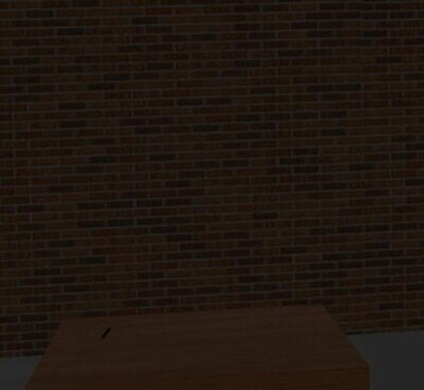
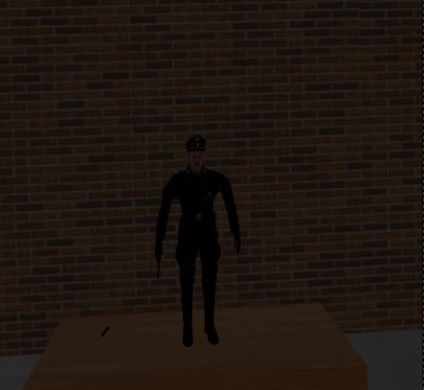
начял делать логику чутка подправил камеру добавил гитлера

Changed region(s): [[0.3679, 0.4308, 0.5825, 0.8923], [0.4292, 0.3385, 0.4906, 0.4]]

diff --git a/main.py b/main.py
@@ -5,6 +5,8 @@ import threading
 import time
 import pygame
 
+from creat import *
+
 pygame.init()
 pygame.mixer.init()
 clock = pygame.time.Clock()
@@ -17,66 +19,8 @@ pygame.display.set_caption('FNaE')
 # Шрифт (текст не отрисовывается по требованию, но шрифт оставлен если понадобится)
 font = pygame.font.Font(None, 24)
 
-def creat_button(x: int, y: int, h: int, w: int, text: str)-> pygame.Rect:
-    """создание кнопок с текстом
-
-    Args:
-        x (int): X(left) координата
-        y (int): y(top) координата
-        h (int): ширена кнопки
-        w (int): высота кнопки
-        text (str): текст на кнопке
-
-    Returns:
-        _pygame.Rect_: класс кнопки
-    """
-    # Создаем поверхность для кнопки (без цветовой заливки кнопки)
-    button_surface = pygame.Surface((h, w), pygame.SRCALPHA)  # поддержка прозрачности
-
-    # Подготовка текста (не отрисовываем его на поверхности по вашему требованию)
-    text_surf = font.render(text, True, (0, 0, 0))
-    text_rect = text_surf.get_rect(center=(button_surface.get_width() / 2,
-                                           button_surface.get_height() / 2))
-
-    # Рект кнопки (координаты на экране)
-    button_rect = pygame.Rect(x, y, h, w)
-
-    # Эффект наведения без изменения цвета: отрисуем тонкий контур при наведении
-    if button_rect.collidepoint(pygame.mouse.get_pos()):
-        pygame.draw.rect(button_surface, (0, 0, 0, 50), button_surface.get_rect(), 2)  # полупрозрачный контур
-    else:
-        pygame.draw.rect(button_surface, (0, 0, 0, 0), button_surface.get_rect(), 1)  # невидимый/тонкий контур
-
-    # По требованию: не выводим текст на кнопку
-    button_surface.blit(text_surf, text_rect)
-
-    # Рисуем кнопку на экране (поверх прозрачной поверхности будет виден фон окна)
-    screen.blit(button_surface, (button_rect.x, button_rect.y))
-
-    return button_rect
-
-def sprite(x:int, y:int, h:int, w:int, file_name:str):
-    """отрисовка справйтов и реогирование на нажатие
-
-    Args:
-        x (int): X координата
-        y (int): y координата
-        h (int): ширена
-        w (int): высота
-        file_name (str): имя картинки(путь да нее)
-
-    Returns:
-        _class_: Surface
-    """
-    img = pygame.image.load(file_name).convert_alpha()
-    img_r = img.get_rect(bottomright=(x, y))
-    #img.set_colorkey((255, 255, 255))
-    screen.blit(img, img_r)
-    return img_r
-
-def music(music_file:str, loop=-1):
-    pygame.mixer.music.load(music_file)
-    pygame.mixer.music.play(loops=loop)
+CONSTANT.font = font
+CONSTANT.screen = screen
 
 menu=True # указывает на то что игрок в меню
 plauing=False # указывает на то что игрок играет
@@ -86,15 +30,16 @@ number_camera = 1
 
 
 position={
-    "holl": [],
+    "holl": ["hitler"],
     "coredor": [],
-    "zal": [],
+    "zal": ["egor"],
     "toilet": []
 }
 shkatulka=0 # шкатулка гитлера от 0 до 30 
 
 def main():
     global menu, plauing, open_camera, number_camera, gitler_logic
+    
     while True:
         clock.tick(60)
         dis_w, dis_h = pygame.display.get_surface().get_size()
@@ -139,12 +84,17 @@ def main():
                 img = pygame.transform.scale(img, (dis_w, dis_h))# растягиваю на весь экран
                 screen.blit(img, (0,0))
                 
+                hourus=12
+                minute=00
+                print_text(dis_w-30, dis_h-30, f"{hourus}:{minute}")
+                
                 open_camera_button = sprite(dis_w-0, dis_h-170, 150,200, os.path.join(os.getcwd(), "asets", "open_camera.png"))
                 if open_camera_button.collidepoint(clic_event):
 
                     if open_camera:
                         open_camera = False
                         print("close_camera")    
+                        music(os.path.join(os.getcwd(), "asets", "sount", "blip.mp3"), 0)
                     else:
                         open_camera = True
                         print("open_camera")
@@ -153,7 +103,7 @@ def main():
                 if open_camera: # тут логика камеры
                     sprite(dis_w-100, dis_h-200, 700,500, os.path.join(os.getcwd(), "asets", "plonshet.png"))
                     #создание кнопок камеры
-                    button1 = sprite(dis_w - 255, dis_h- 350, 30, 30, os.path.join(os.getcwd(), "asets", "camers", "cam_button", "1.png"))
+                    button1 = sprite(dis_w - 220, dis_h- 420, 30, 30, os.path.join(os.getcwd(), "asets", "camers", "cam_button", "1.png"))
                     button2 = sprite(dis_w - 220, dis_h- 320, 30, 30, os.path.join(os.getcwd(), "asets", "camers", "cam_button", "2.png"))
                     button3 = sprite(dis_w - 150, dis_h- 260, 30, 30, os.path.join(os.getcwd(), "asets", "camers", "cam_button", "3.png"))
                     button4 = sprite(dis_w - 200, dis_h- 470, 30, 30, os.path.join(os.getcwd(), "asets", "camers", "cam_button", "4.png"))
@@ -182,7 +132,10 @@ def main():
                     if number_camera == 3:
                         sprite(dis_w-340, dis_h-271, 400, 390, os.path.join(os.getcwd(), "asets", "camers", "coredor.jpg"))
                     if number_camera == 4:
-                        sprite(dis_w-340, dis_h-271, 400, 390, os.path.join(os.getcwd(), "asets", "camers", "gitler.jpg"))
+                        if position["holl"][0]=="hitler":
+                            sprite(dis_w-340, dis_h-271, 400, 390, os.path.join(os.getcwd(), "asets", "camers", "gitler.jpg"))
+                        else:
+                            sprite(dis_w-340, dis_h-271, 400, 390, os.path.join(os.getcwd(), "asets", "camers", "gitler_scena.jpg"))
                 else:
                     pass
                     

diff --git a/creat.py b/creat.py
@@ -1,0 +1,74 @@
+import pygame
+
+class plauing_const():
+    def __init__(self):
+        self.font=pygame.font.Font
+        self.screen=pygame.Surface
+        
+CONSTANT=plauing_const()
+
+
+def creat_button(x: int, y: int, h: int, w: int, text: str)-> pygame.Rect:
+    """создание кнопок с текстом
+
+    Args:
+        x (int): X(left) координата
+        y (int): y(top) координата
+        h (int): ширена кнопки
+        w (int): высота кнопки
+        text (str): текст на кнопке
+
+    Returns:
+        _pygame.Rect_: класс кнопки
+    """
+    # Создаем поверхность для кнопки (без цветовой заливки кнопки)
+    button_surface = pygame.Surface((h, w), pygame.SRCALPHA)  # поддержка прозрачности
+
+    # Подготовка текста (не отрисовываем его на поверхности по вашему требованию)
+    text_surf = CONSTANT.font.render(text, True, (0, 0, 0))
+    text_rect = text_surf.get_rect(center=(button_surface.get_width() / 2,
+                                           button_surface.get_height() / 2))
+
+    # Рект кнопки (координаты на экране)
+    button_rect = pygame.Rect(x, y, h, w)
+
+    # Эффект наведения без изменения цвета: отрисуем тонкий контур при наведении
+    if button_rect.collidepoint(pygame.mouse.get_pos()):
+        pygame.draw.rect(button_surface, (0, 0, 0, 50), button_surface.get_rect(), 2)  # полупрозрачный контур
+    else:
+        pygame.draw.rect(button_surface, (0, 0, 0, 0), button_surface.get_rect(), 1)  # невидимый/тонкий контур
+
+    # По требованию: не выводим текст на кнопку
+    button_surface.blit(text_surf, text_rect)
+
+    # Рисуем кнопку на экране (поверх прозрачной поверхности будет виден фон окна)
+    CONSTANT.screen.blit(button_surface, (button_rect.x, button_rect.y))
+
+    return button_rect
+
+def sprite(x:int, y:int, h:int, w:int, file_name:str):
+    """отрисовка справйтов и реогирование на нажатие
+
+    Args:
+        x (int): X координата
+        y (int): y координата
+        h (int): ширена
+        w (int): высота
+        file_name (str): имя картинки(путь да нее)
+
+    Returns:
+        _class_: Surface
+    """
+    img = pygame.image.load(file_name).convert_alpha()
+    img_r = img.get_rect(bottomright=(x, y))
+    #img.set_colorkey((255, 255, 255))
+    CONSTANT.screen.blit(img, img_r)
+    return img_r
+
+def music(music_file:str, loop=-1):
+    pygame.mixer.music.load(music_file)
+    pygame.mixer.music.play(loops=loop)
+    
+def print_text(x:int, y:int, text:str ,color=(0, 0, 0)):
+    text_surface = CONSTANT.font.render(text, True, color)
+    CONSTANT.screen.blit(text_surface, (x,y))
